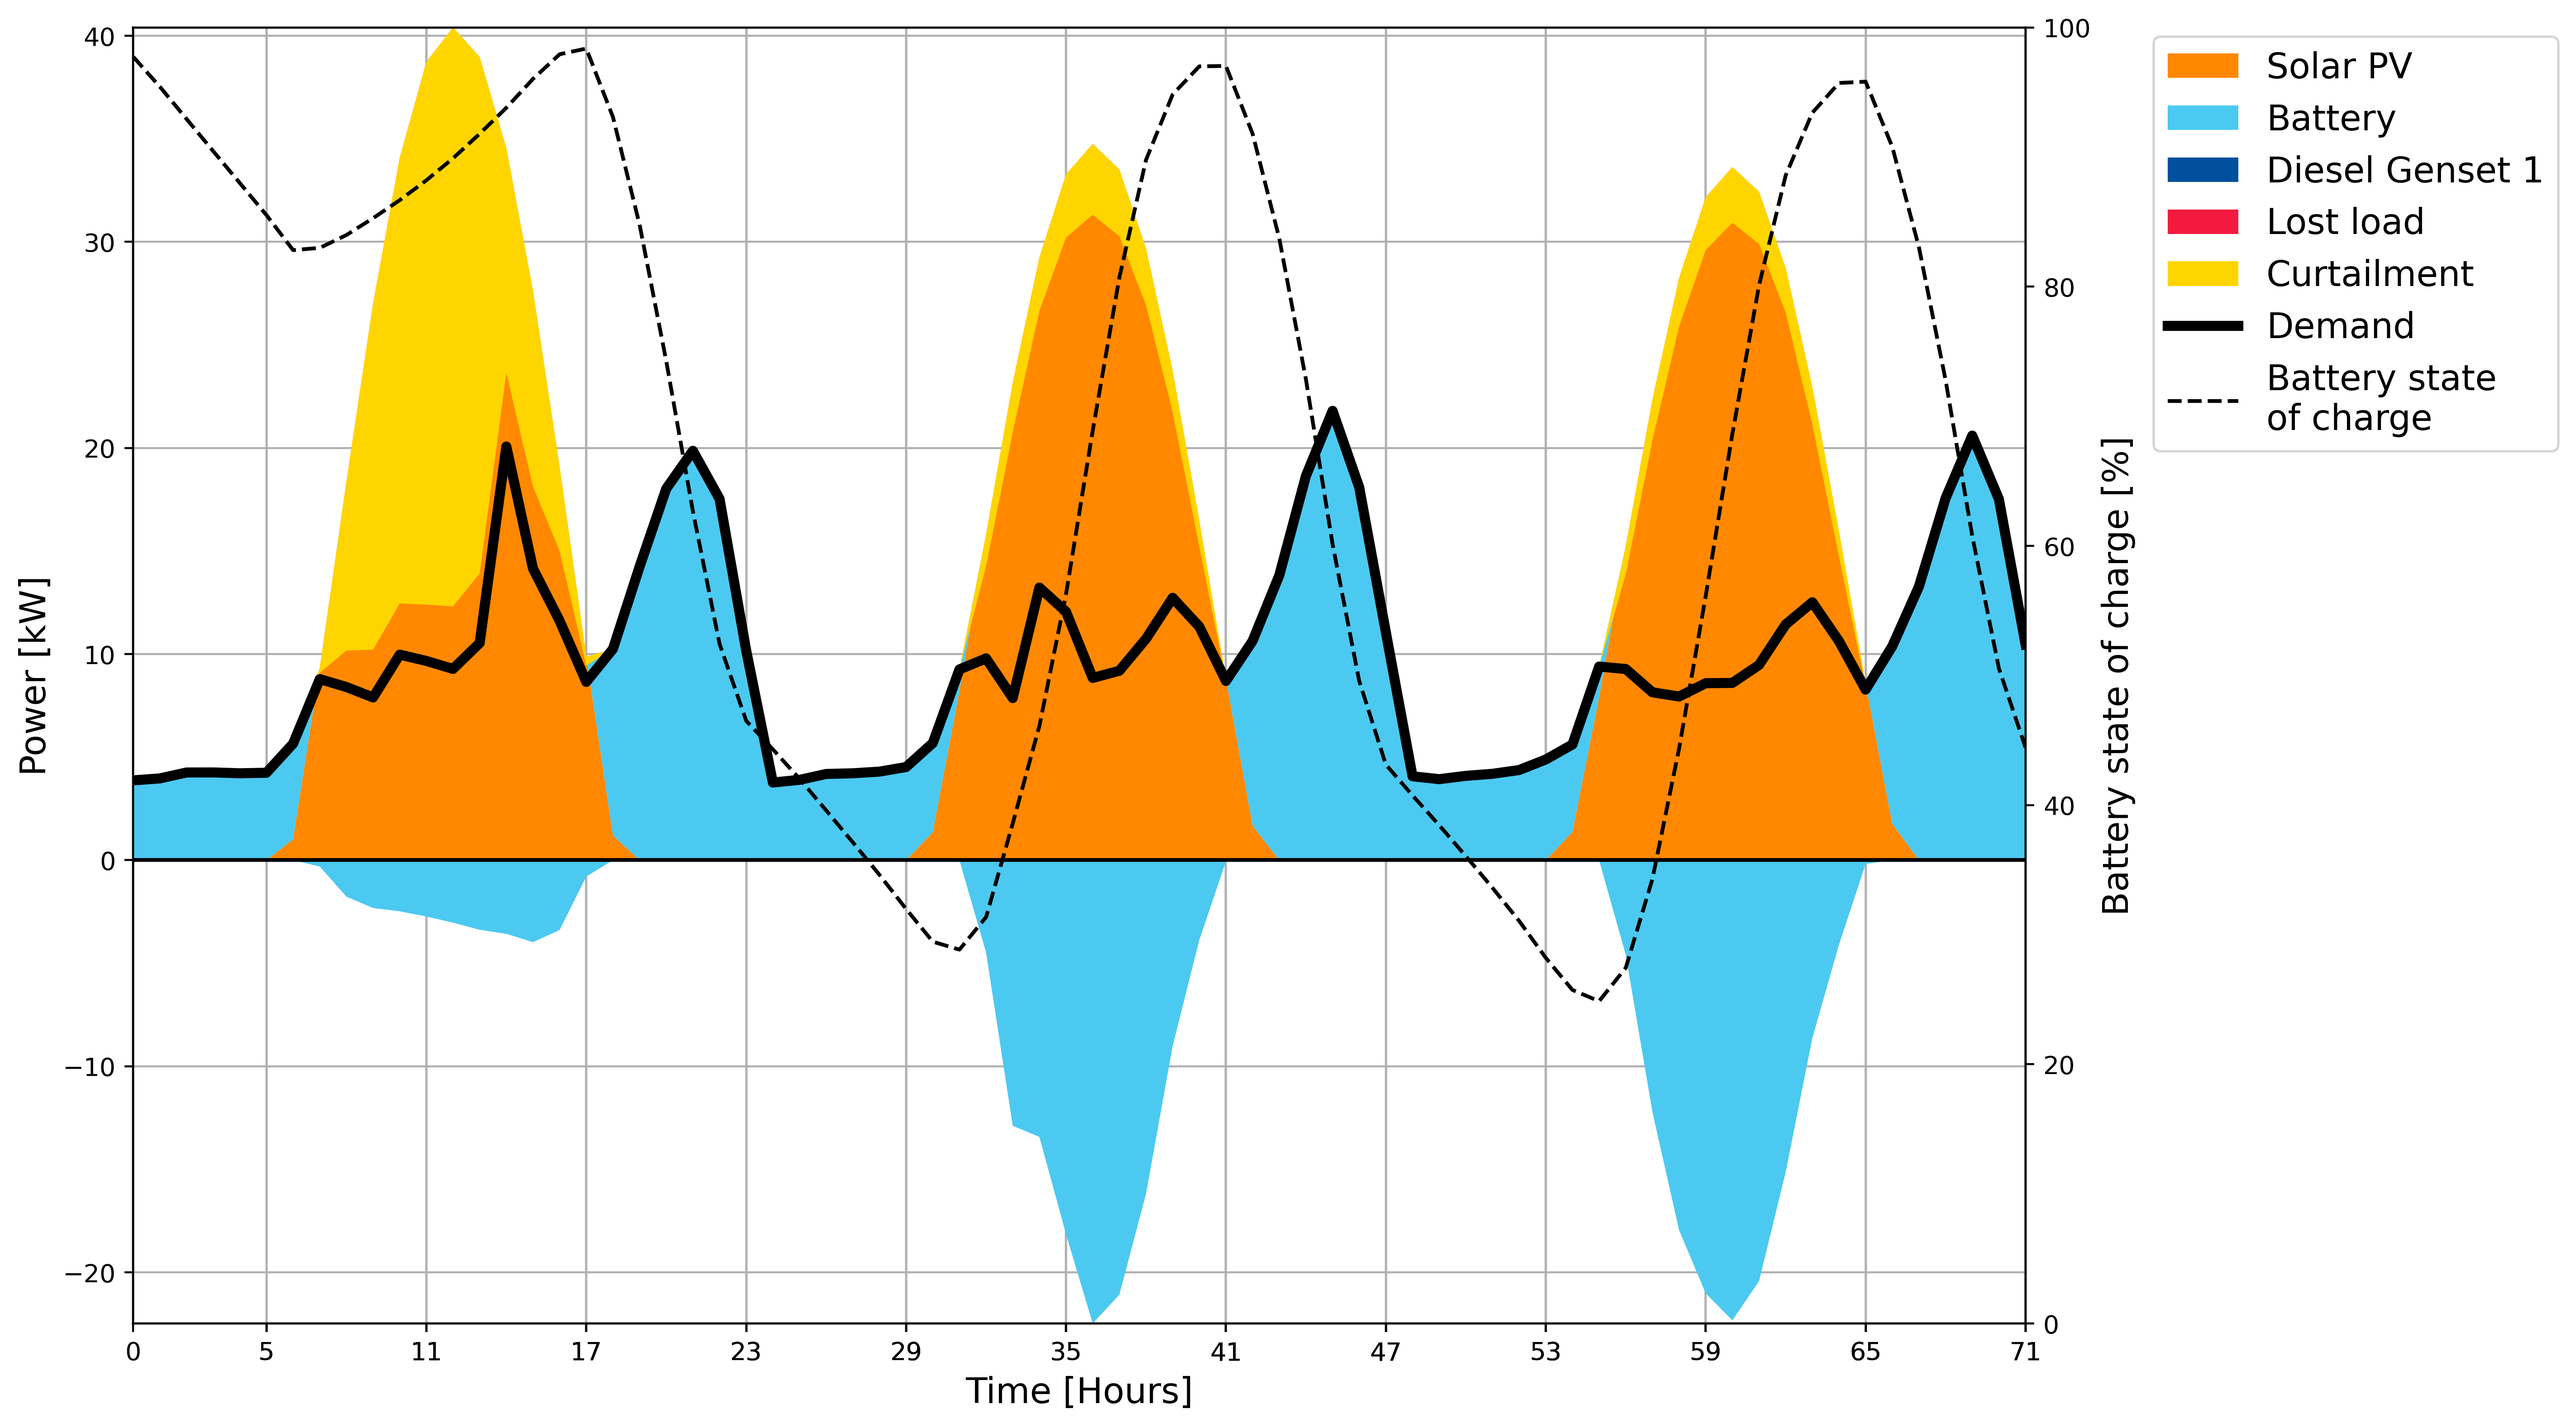
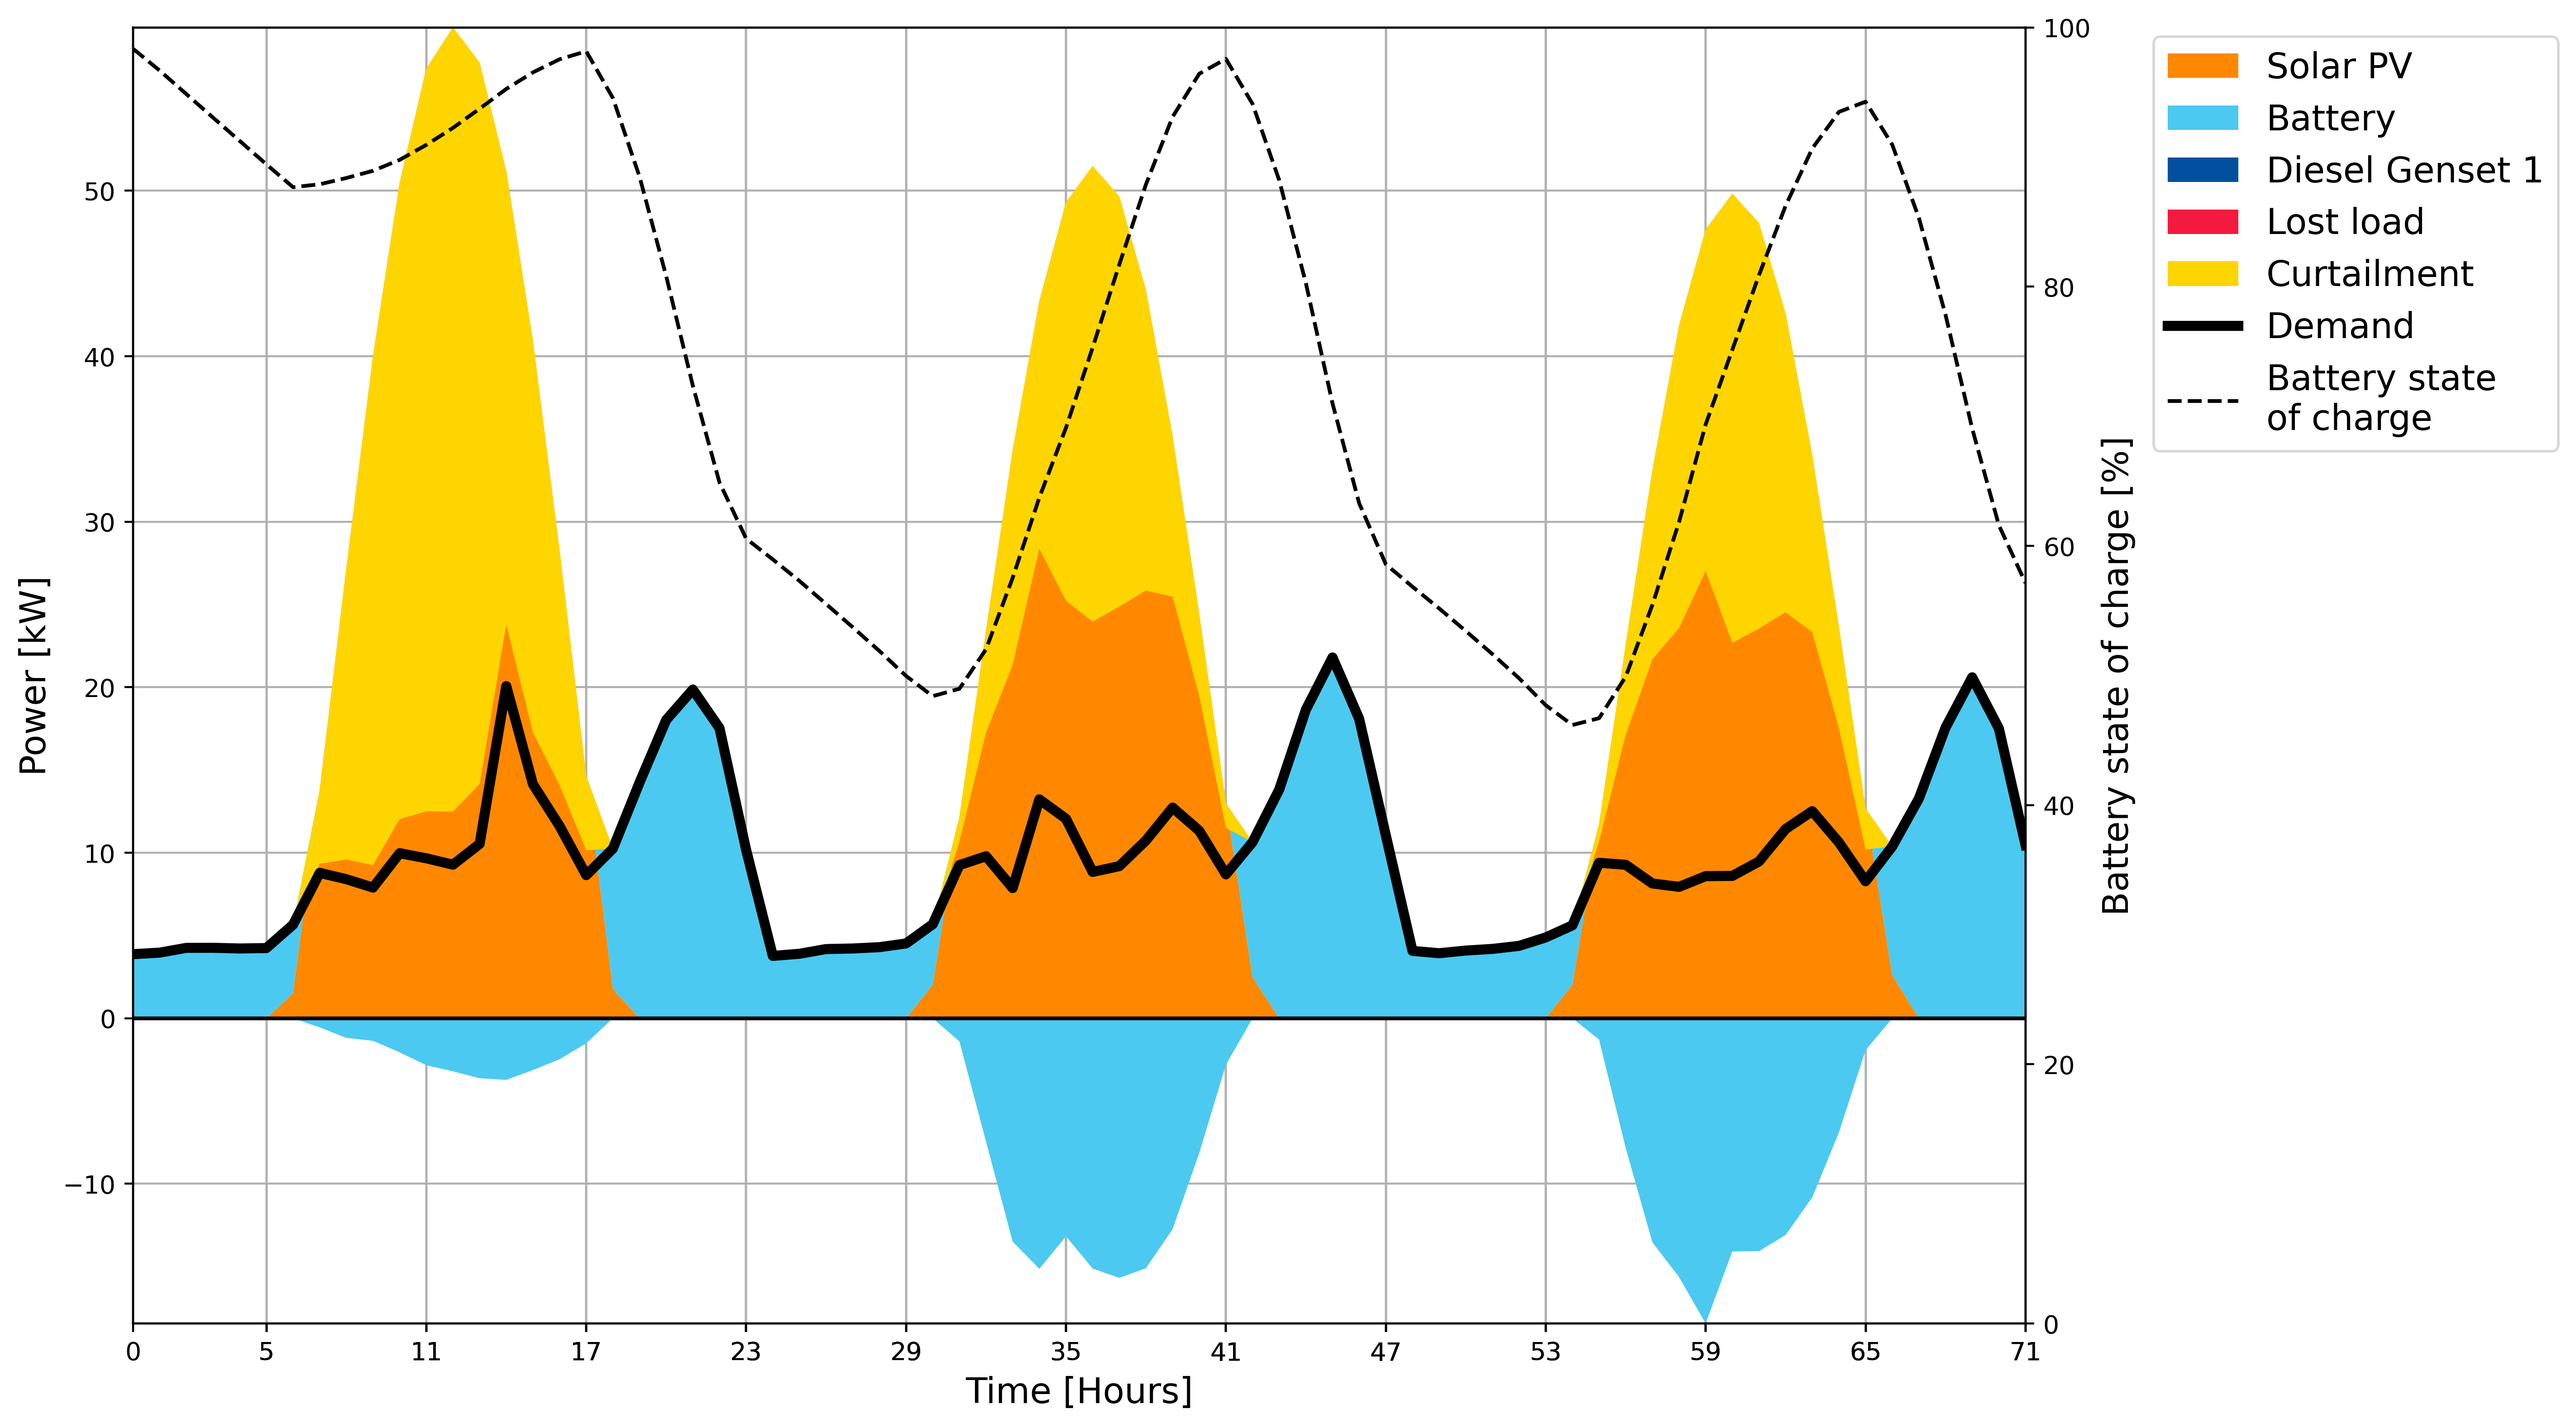
update

diff --git a/docs/source/example.rst b/docs/source/example.rst
@@ -242,6 +242,69 @@ Battery usage per year has decreased to 35.26% from the previous 50.83%. This re
 The diesel generator share per year has decreased further to 3.78%, a slight reduction from the already low 4.04%. This reduction reinforces the trend of moving away from fossil fuel-based generation in favor of cleaner energy sources and the support of grid power.
 The Levelized Cost of Electricity (LCOE) stands at 0.2185 USD/kWh, which is lower than both the previous LCOE of 0.2376 USD/kWh and the default scenario's 0.2562 USD/kWh. This indicates an improvement in the cost-effectiveness of the energy mix in the current grid-connected scenario, likely due to the lower marginal costs of drawing power from the grid as opposed to relying solely on local generation and storage.
 
+Multi-Objective Optimization
+---------------------------------------------
+This simulation is designed to test the Multi-Objective Optimization mode, setting 3 Pareto points, showing the result with minimum emissions to compare it with the previous scenarios.
+
+.. raw:: html
+
+  <div id="uniqueCarouselExample" class="carousel slide" data-ride="carousel">
+    <div class="carousel-inner">
+      <div class="carousel-item active">
+        <img src="https://github.com/AleOnori98/MicroGridsPy_Doc/blob/main/docs/source/Images/Examples/3/2.1.png?raw=true" class="d-block w-100" alt="Dispatch Strategy">
+      </div>
+      <div class="carousel-item">
+        <img src="https://github.com/AleOnori98/MicroGridsPy_Doc/blob/main/docs/source/Images/Examples/3/2.2.png?raw=true" class="d-block w-100" alt="Cash Flow Analysis">
+      </div>
+       <div class="carousel-item">
+         <img src="https://github.com/AleOnori98/MicroGridsPy_Doc/blob/main/docs/source/Images/Examples/3/2.3.png?raw=true" class="d-block w-100" alt="Cash Flow Analysis">
+       </div>
+       <div class="carousel-item">
+         <img src="https://github.com/AleOnori98/MicroGridsPy_Doc/blob/main/docs/source/Images/Examples/3/2.4.png?raw=true" class="d-block w-100" alt="Cash Flow Analysis">
+       </div>
+       <div class="carousel-item">
+         <img src="https://github.com/AleOnori98/MicroGridsPy_Doc/blob/main/docs/source/Images/Examples/3/2.5.png?raw=true" class="d-block w-100" alt="Cash Flow Analysis">
+       </div>
+       <div class="carousel-item">
+         <img src="https://github.com/AleOnori98/MicroGridsPy_Doc/blob/main/docs/source/Images/Examples/3/2.6.png?raw=true" class="d-block w-100" alt="Cash Flow Analysis">
+       </div>
+       <div class="carousel-item">
+         <img src="https://github.com/AleOnori98/MicroGridsPy_Doc/blob/main/docs/source/Images/Examples/3/2.7.png?raw=true" class="d-block w-100" alt="Cash Flow Analysis">
+       </div>
+       <div class="carousel-item">
+         <img src="https://github.com/AleOnori98/MicroGridsPy_Doc/blob/main/docs/source/Images/Examples/3/2.8.png?raw=true" class="d-block w-100" alt="Cash Flow Analysis">
+       </div>
+       <div class="carousel-item">
+         <img src="https://github.com/AleOnori98/MicroGridsPy_Doc/blob/main/docs/source/Images/Examples/3/2.9.png?raw=true" class="d-block w-100" alt="Cash Flow Analysis">
+       </div>
+       <div class="carousel-item">
+         <img src="https://github.com/AleOnori98/MicroGridsPy_Doc/blob/main/docs/source/Images/Examples/3/2.10.png?raw=true" class="d-block w-100" alt="Cash Flow Analysis">
+       </div>
+       <div class="carousel-item">
+         <img src="https://github.com/AleOnori98/MicroGridsPy_Doc/blob/main/docs/source/Images/Examples/3/2.11.png?raw=true" class="d-block w-100" alt="Cash Flow Analysis">
+       </div>
+       <div class="carousel-item">
+         <img src="https://github.com/AleOnori98/MicroGridsPy_Doc/blob/main/docs/source/Images/Examples/3/2.12.png?raw=true" class="d-block w-100" alt="Cash Flow Analysis">
+       </div>
+       <div class="carousel-item">
+         <img src="https://github.com/AleOnori98/MicroGridsPy_Doc/blob/main/docs/source/Images/Examples/3/2.13.png?raw=true" class="d-block w-100" alt="Cash Flow Analysis">
+       </div>
+       <div class="carousel-item">
+         <img src="https://github.com/AleOnori98/MicroGridsPy_Doc/blob/main/docs/source/Images/Examples/3/2.14.png?raw=true" class="d-block w-100" alt="Cash Flow Analysis">
+       </div>
+     </div>
+    <a class="carousel-control-prev" href="#uniqueCarouselExample" role="button" data-slide="prev">
+      <span class="carousel-control-prev-icon" aria-hidden="true"></span>
+      <span class="sr-only">Previous</span>
+    </a>
+    <a class="carousel-control-next" href="#uniqueCarouselExample" role="button" data-slide="next">
+      <span class="carousel-control-next-icon" aria-hidden="true"></span>
+      <span class="sr-only">Next</span>
+    </a>
+  </div>
+
+-----------------------------------------------
+
 MILP Formulation
 ---------------------------------------------
 This iteration of the model employs a Mixed-Integer Linear Programming (MILP) framework, strategically designed to simulate a decade-long operation of mini-grids with two intervals of capacity expansion. The MILP paradigm introduces binary decision variables to address unit commitment issues, allowing for a precise representation of start-up and shut-down activities of power generation units. 

diff --git a/docs/source/model_structure.rst b/docs/source/model_structure.rst
@@ -198,7 +198,7 @@ The module also deals with the grid connection, including setting up parameters 
 The ``Initialize`` module provides a comprehensive setup for the optimization model, ensuring that all necessary data is loaded and parameters are set before the optimization begins. It acts as the preparatory stage, converting raw data into a structured format that the model can interpret and utilize. This module underscores the importance of initial conditions in the optimization process and ensures that the model's execution is based on accurate and up-to-date information.
 
 Demand Module
---------------
+=================
 
 The ``Demand`` module is tasked with the generation of load curves for the MicroGridsPy model. It leverages a data-driven approach, utilizing predefined archetypes that reflect the energy consumption patterns of different household tiers and service structures.
 
